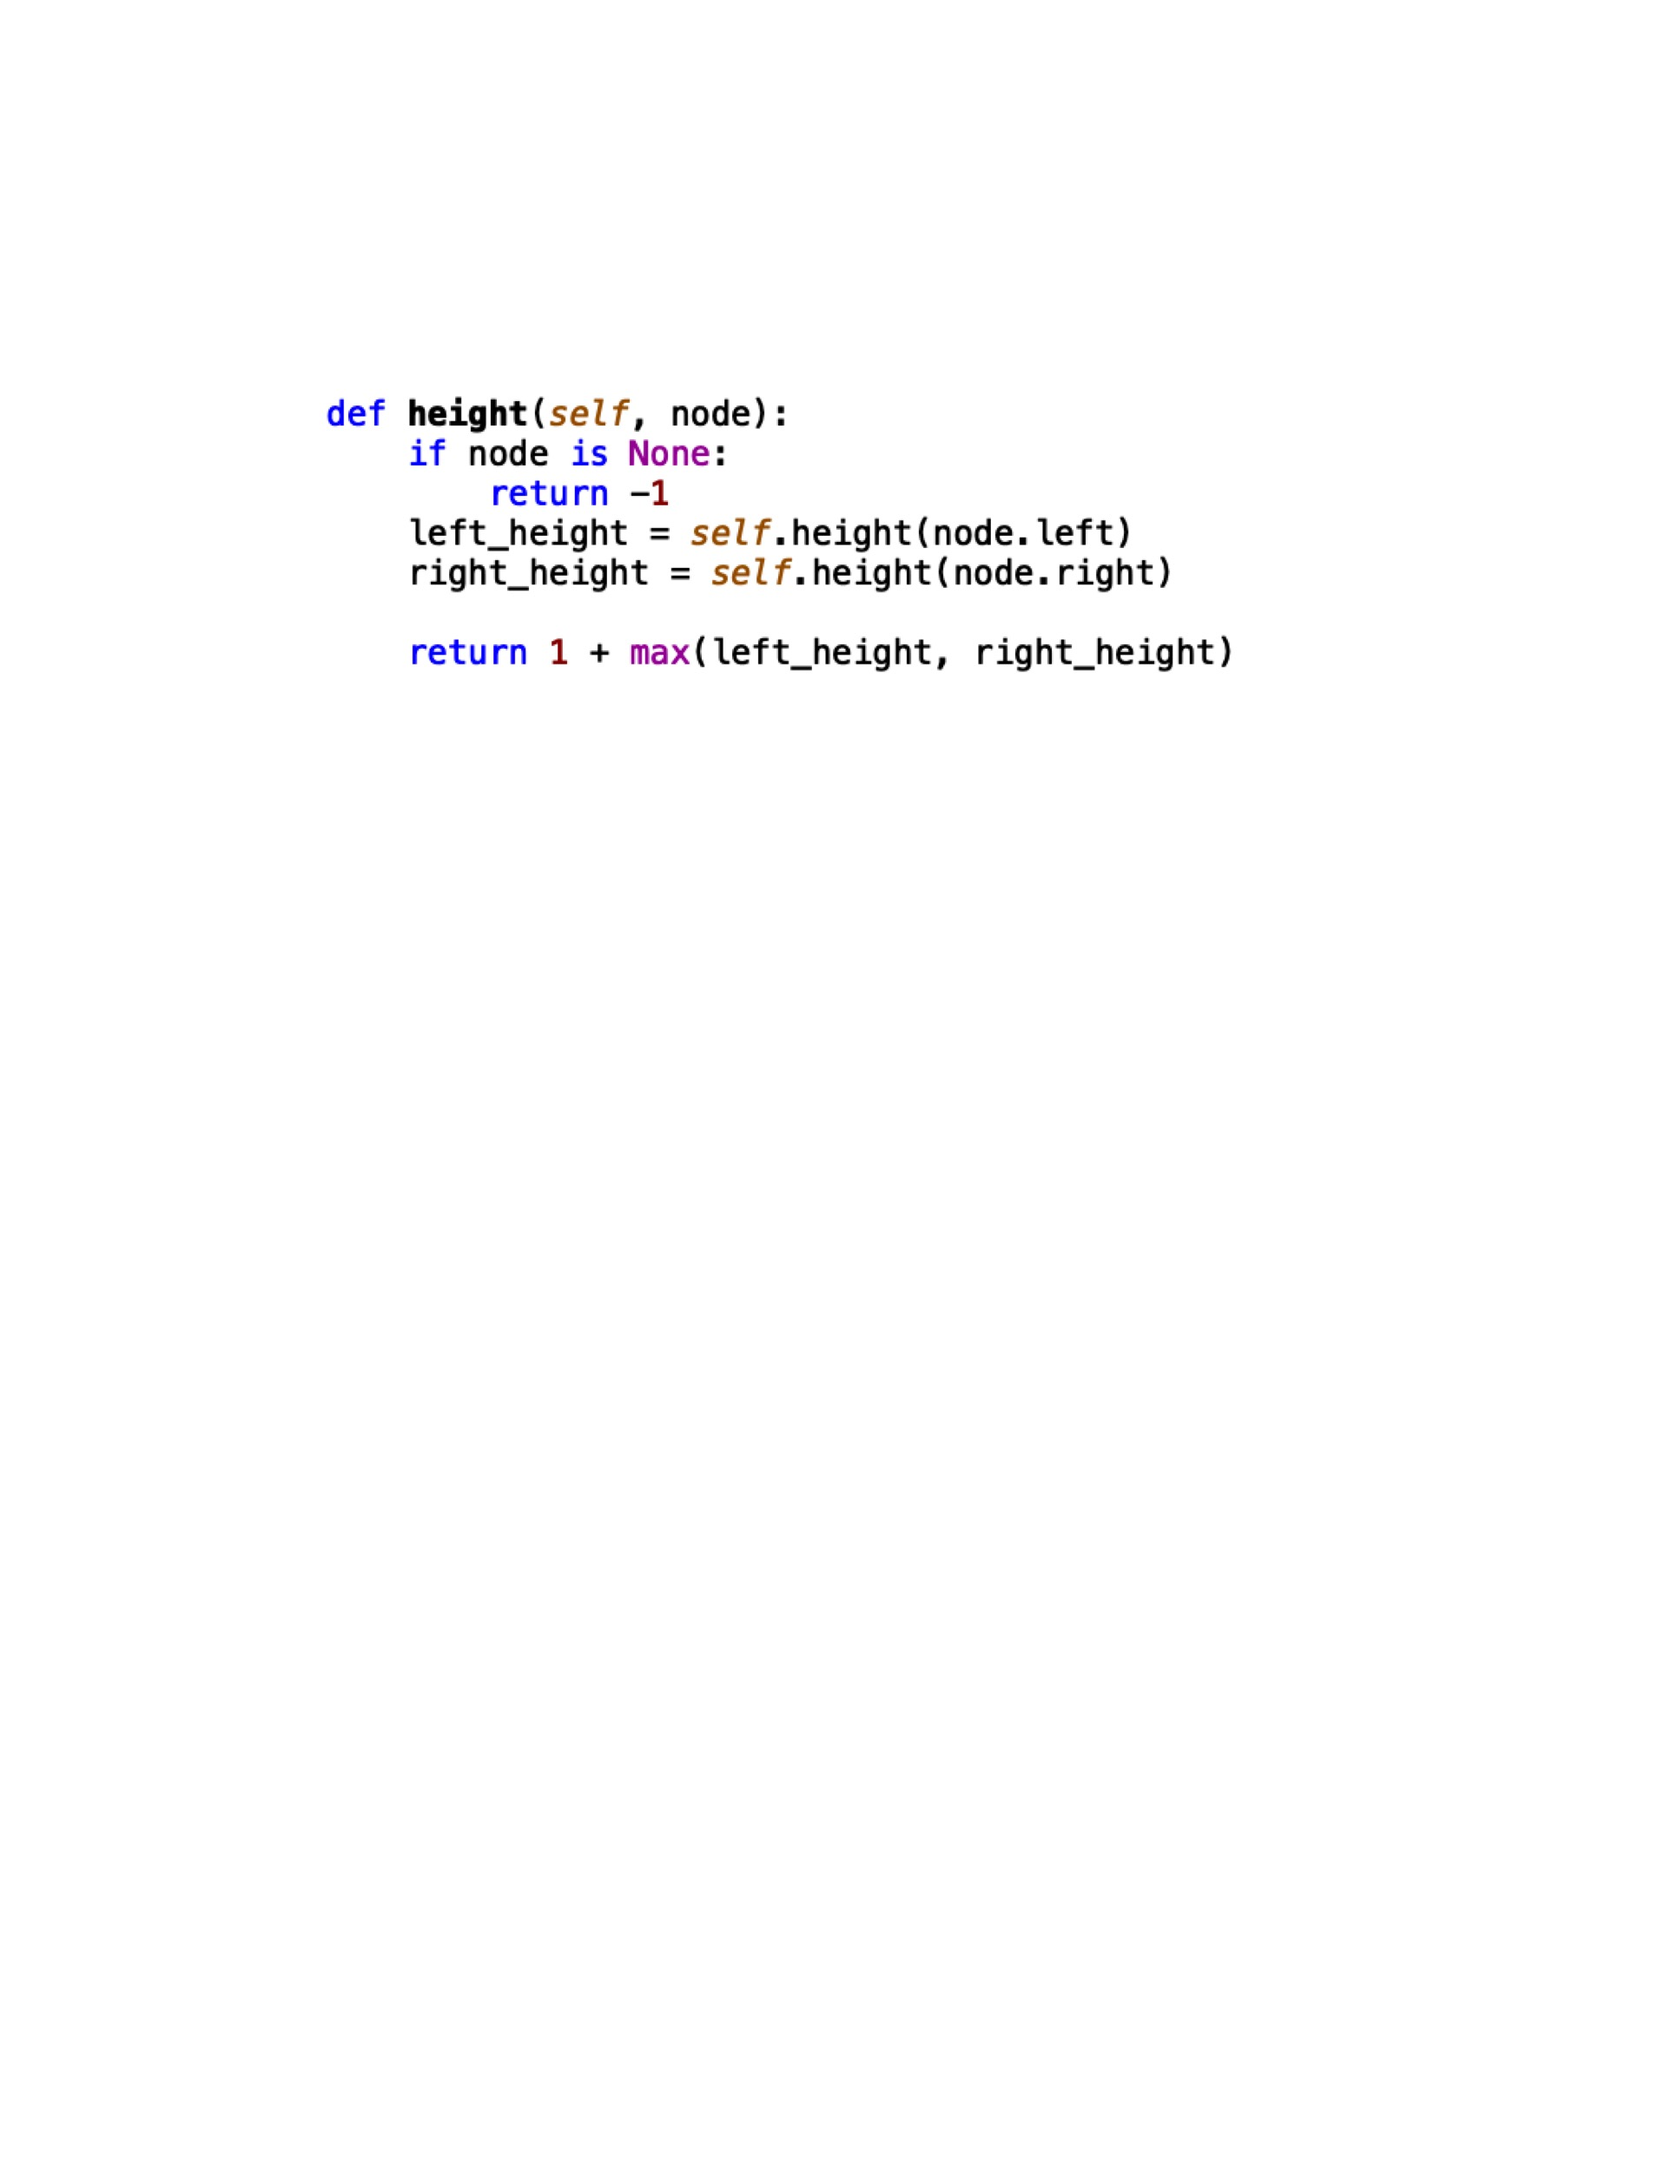
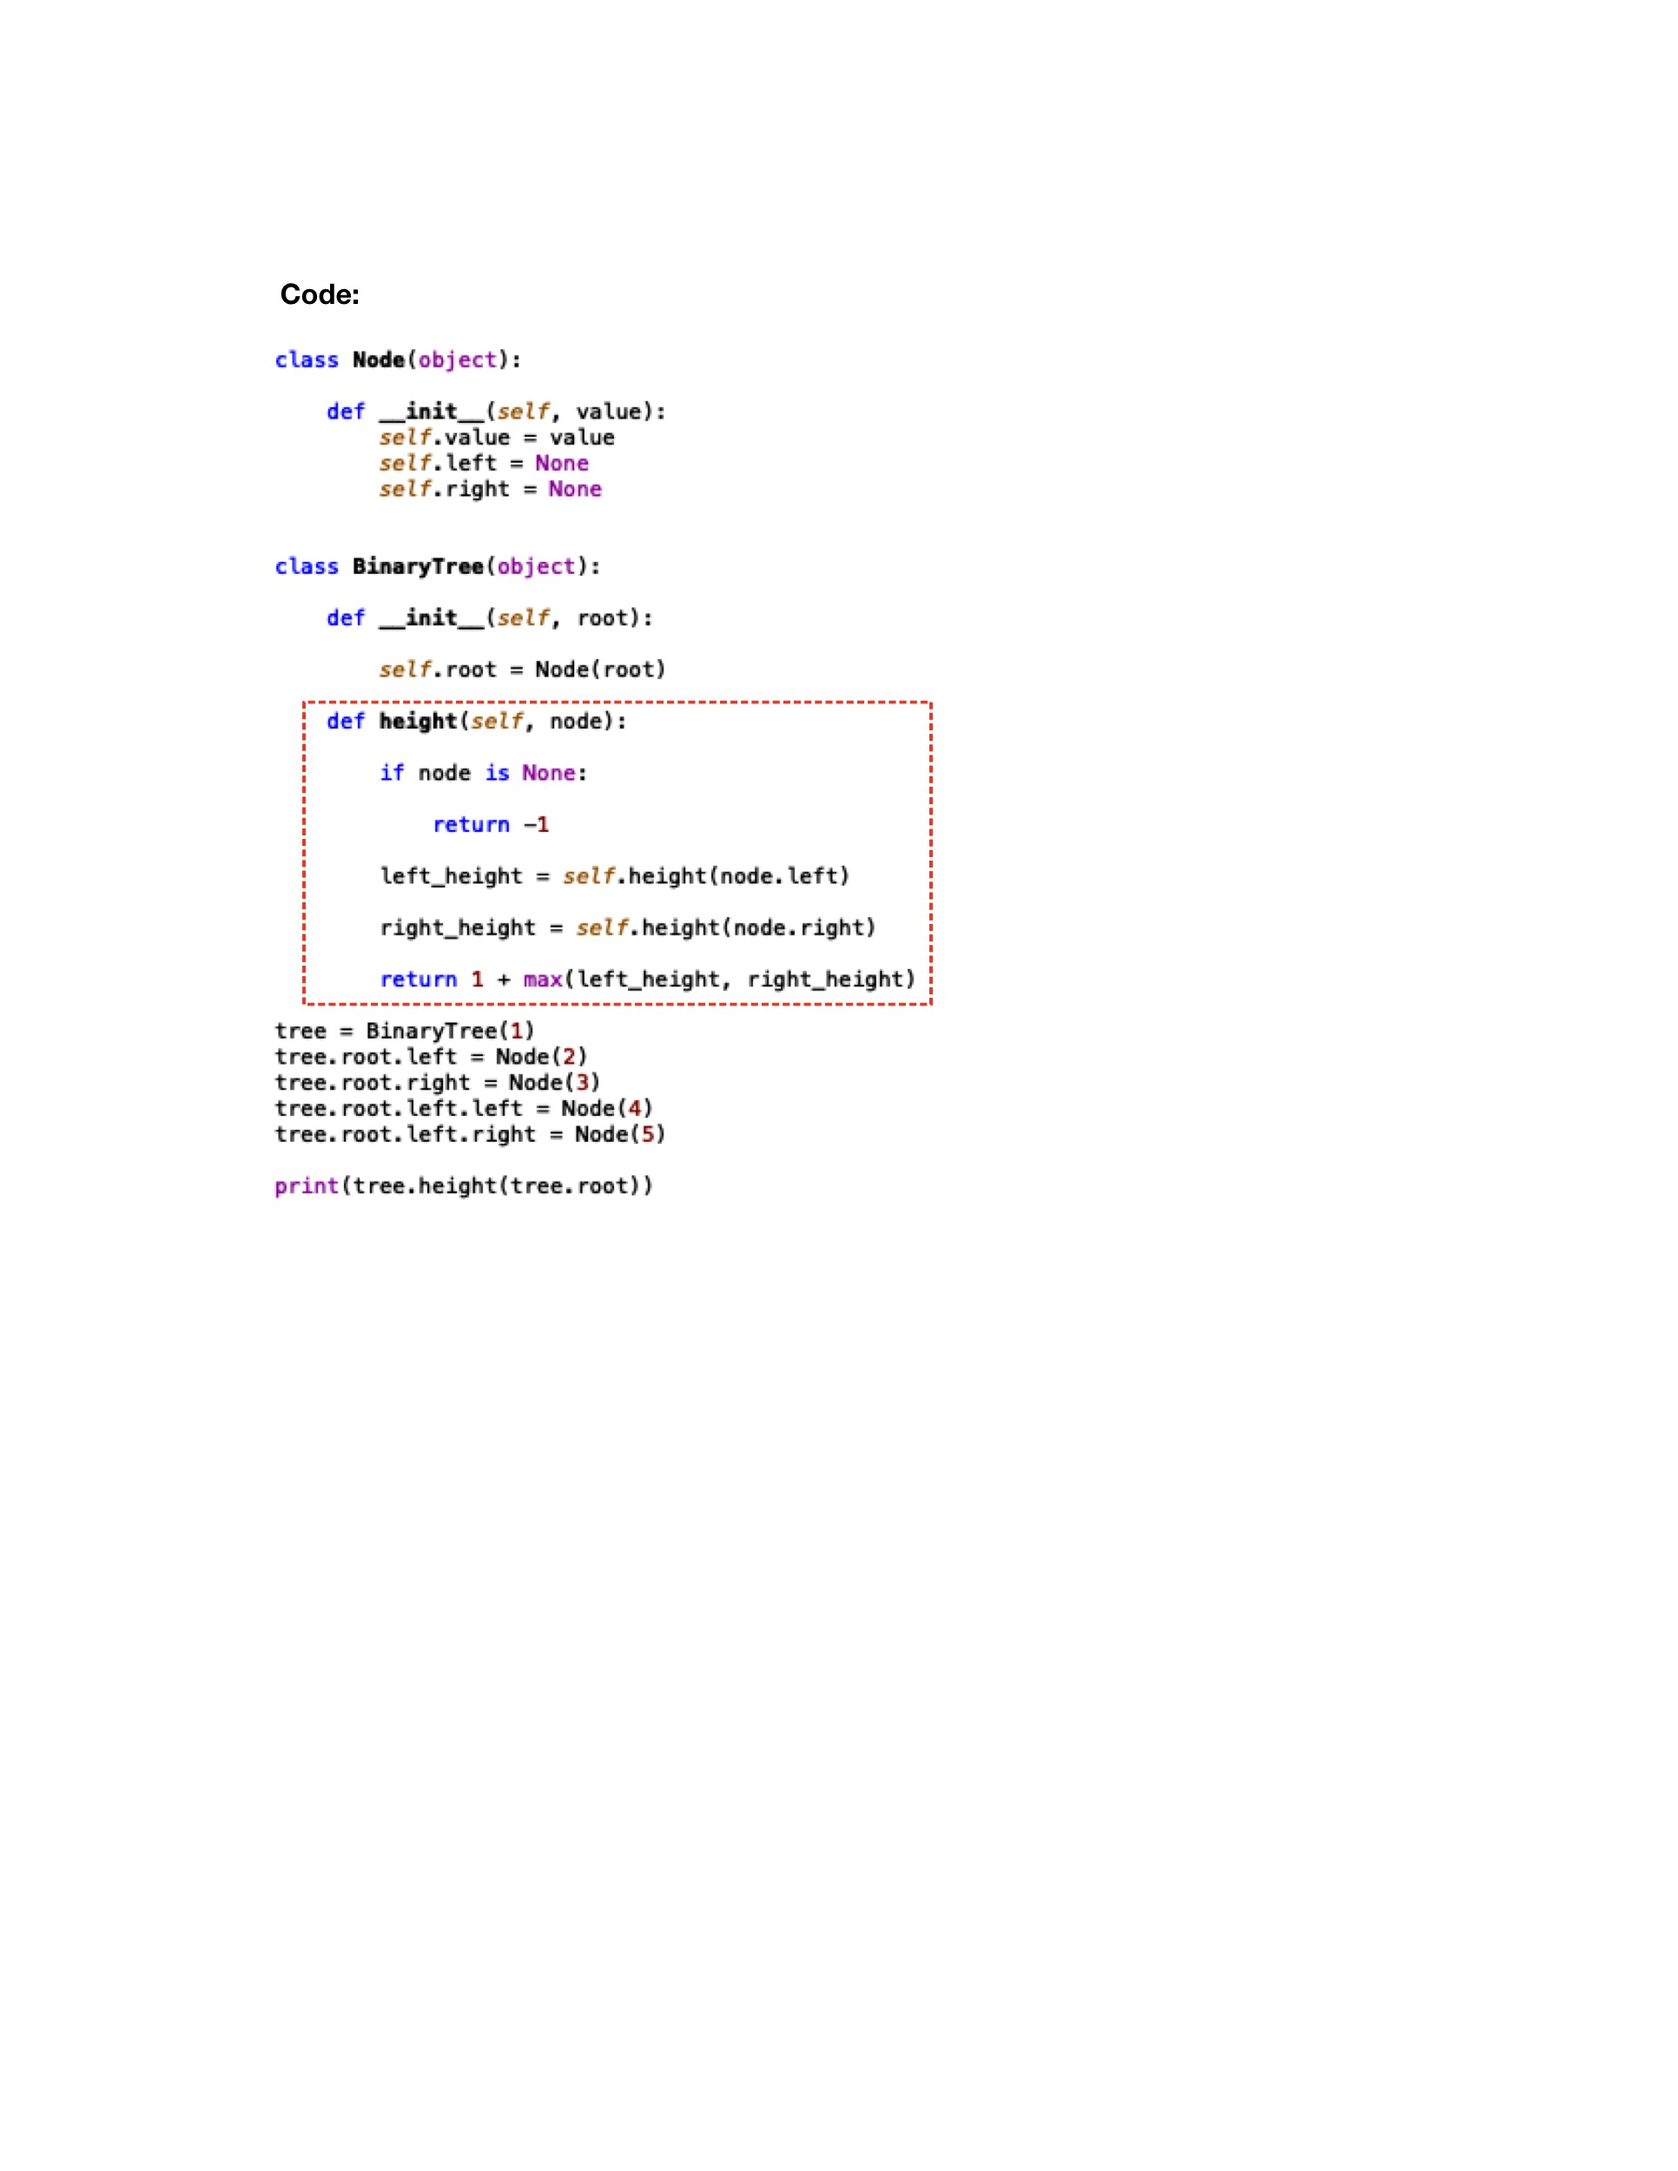
height of binary tree

Changed region(s): [[0.1553, 0.1248, 0.7453, 0.5616]]

diff --git a/_pages/height_of_tree.md b/_pages/height_of_tree.md
@@ -19,10 +19,37 @@ header:
 
 Code:
 
-     def height(self, node):
+    class Node(object):
+
+        def __init__(self, value):
+            self.value = value
+            self.left = None
+            self.right = None
+
+
+    class BinaryTree(object):
+
+        def __init__(self, root):
+
+            self.root = Node(root)
+
+        def height(self, node):
+
             if node is None:
+
                 return -1
+
             left_height = self.height(node.left)
+
             right_height = self.height(node.right)
 
             return 1 + max(left_height, right_height)
+
+    tree = BinaryTree(1)
+    tree.root.left = Node(2)
+    tree.root.right = Node(3)
+    tree.root.left.left = Node(4)
+    tree.root.left.right = Node(5)
+
+    print(tree.height(tree.root))
+
